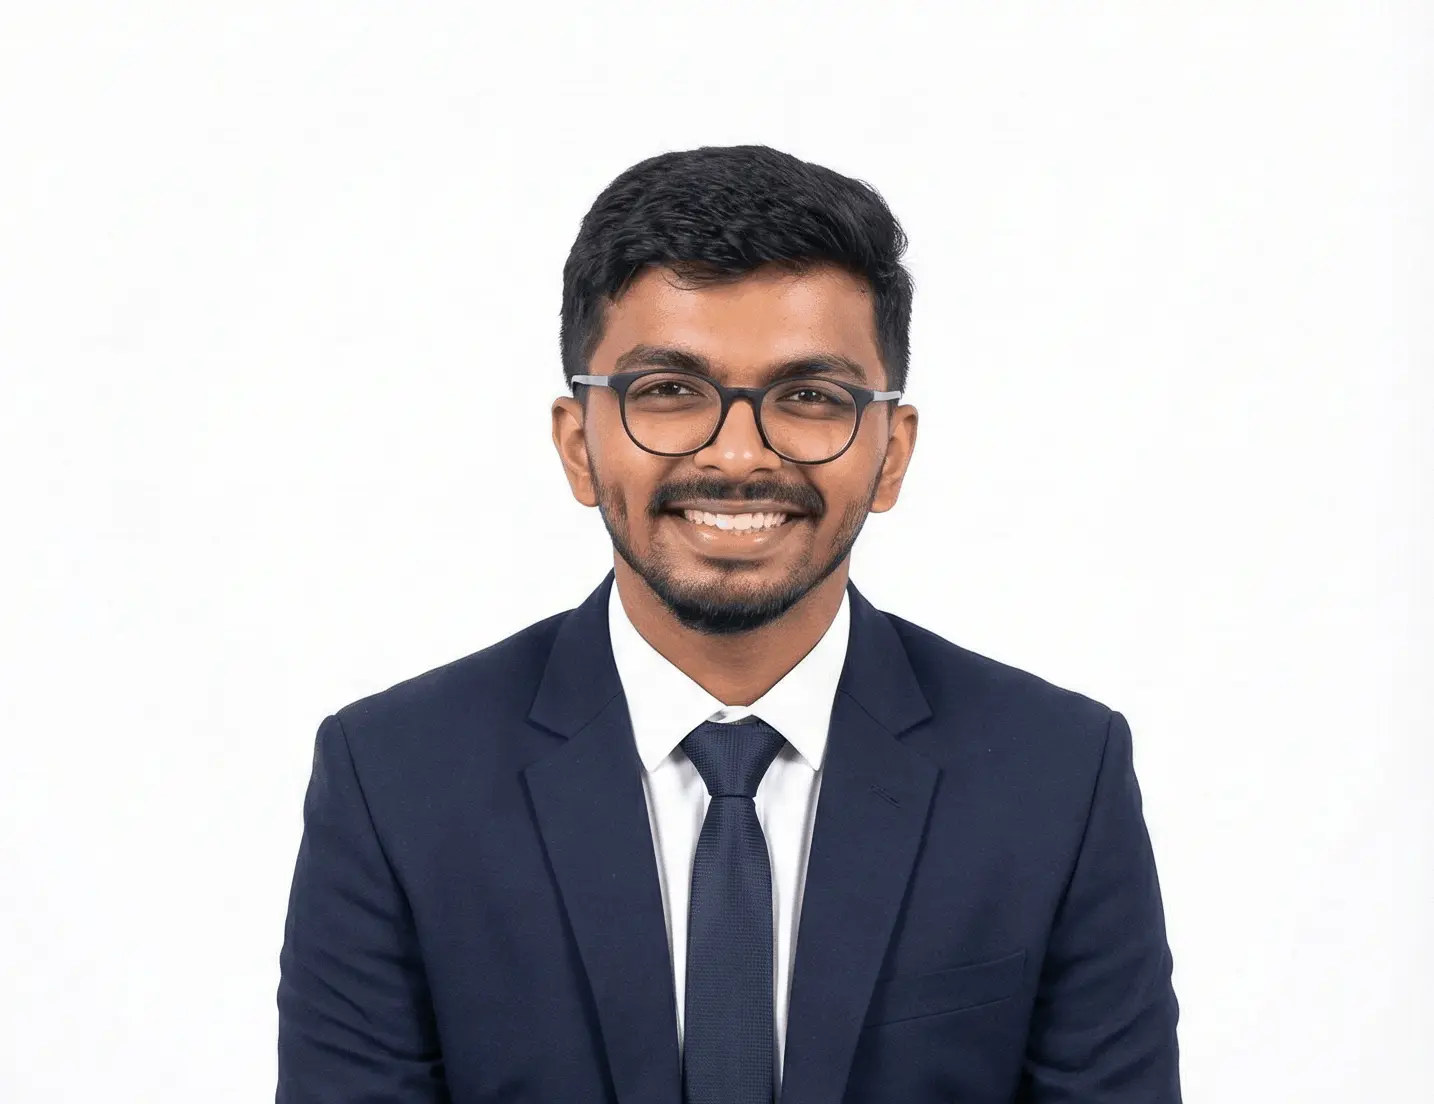
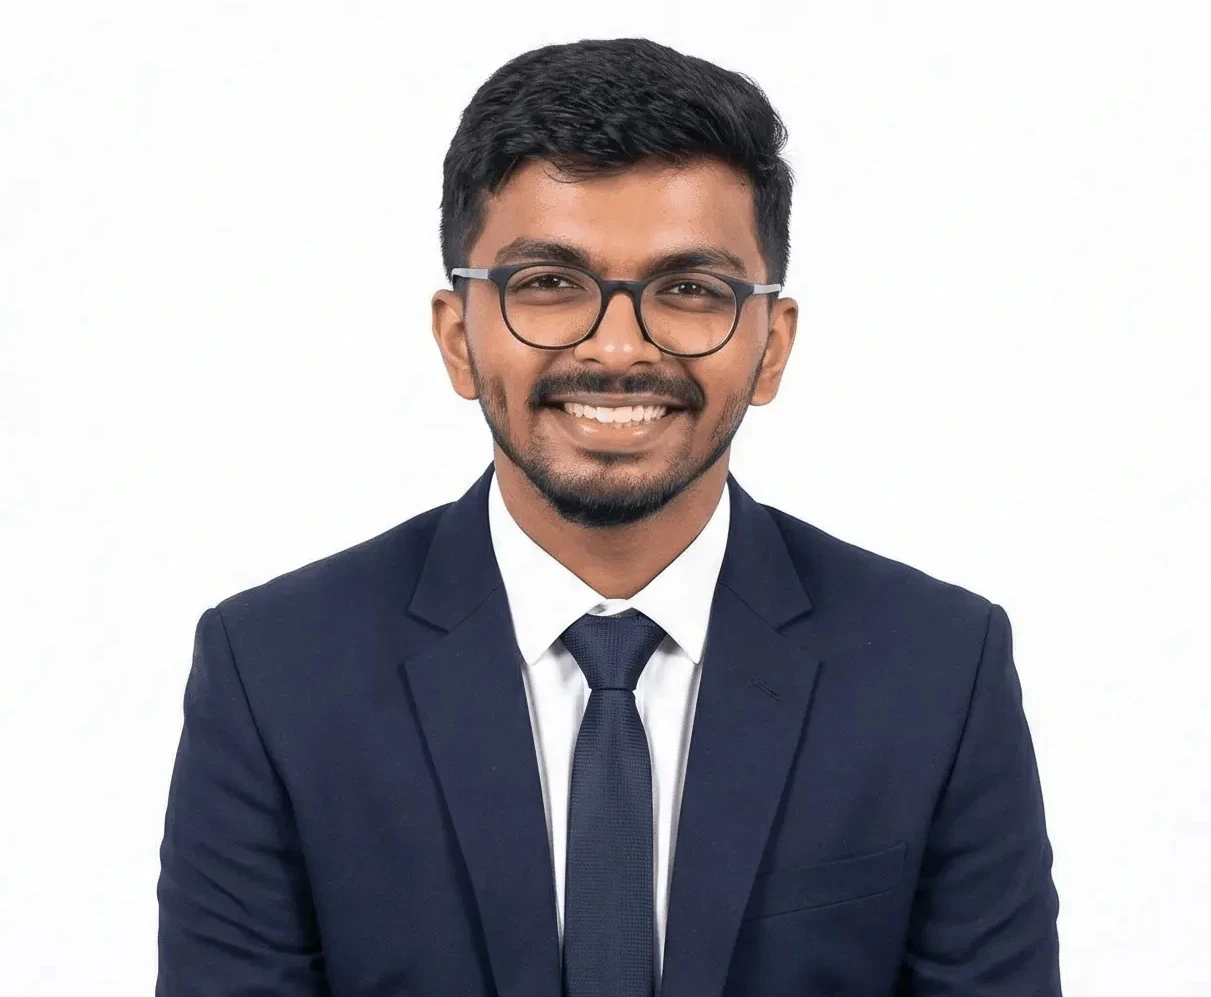
refinements

diff --git a/src/components/pages/UnifiedCapabilities.tsx b/src/components/pages/UnifiedCapabilities.tsx
@@ -1,69 +1,81 @@
-import { 
-  ShieldCheck, Layers, FileSearch, ArrowUpRight, Zap, 
-  ShoppingCart, Repeat, Tag, Award 
+import {
+  ShieldCheck,
+  Layers,
+  FileSearch,
+  ArrowUpRight,
+  Zap,
+  ShoppingCart,
+  Repeat,
+  Tag,
+  Award,
 } from "lucide-react";
 
 const UnifiedCapabilities = () => {
   const capabilities = [
     {
       title: "Direct Registry Integration",
-      description: "Secure technology and direct data bridges with global registries and exchanges to ensure every credit is authenticated and traceable.",
+      description:
+        "Secure technology and direct data bridges with global registries and exchanges to ensure every credit is authenticated and traceable.",
       icon: <Layers size={24} />,
-      tag: "Technology"
+      tag: "Technology",
     },
     {
       title: "Audit-Ready Accountability",
-      description: "Transparent documentation and evidence designed to stand up to audits, providing clarity for sustainability teams.",
+      description:
+        "Transparent documentation and evidence designed to stand up to audits, providing clarity for sustainability teams.",
       icon: <FileSearch size={24} />,
-      tag: "Governance"
+      tag: "Governance",
     },
     {
       title: "High-Integrity Verification",
-      description: "Our framework eliminates double counting and prevents fraud, preserving the integrity of every credit from origin to retirement.",
+      description:
+        "Our framework eliminates double counting and prevents fraud, preserving the integrity of every credit from origin to retirement.",
       icon: <ShieldCheck size={24} />,
-      tag: "Trust"
-    }
+      tag: "Trust",
+    },
   ];
 
   const actions = [
     {
       title: "BUY",
-      description: "Access premium, verified credits—fast, transparent, reliable.",
+      description:
+        "Access premium, verified credits—fast, transparent, reliable.",
       icon: <ShoppingCart size={24} />,
-      tag: "Acquisition"
+      tag: "Acquisition",
     },
     {
       title: "TRANSFER",
       description: "Move credits instantly with full traceability and control.",
       icon: <Repeat size={24} />,
-      tag: "Logistics"
+      tag: "Logistics",
     },
     {
       title: "SELL",
-      description: "List and monetize credits in a liquid, trusted marketplace.",
+      description:
+        "List and monetize credits in a liquid, trusted marketplace.",
       icon: <Tag size={24} />,
-      tag: "Liquidity"
+      tag: "Liquidity",
     },
     {
       title: "RETIRE",
-      description: "Retire credits with certainty—fully documented and compliant.",
+      description:
+        "Retire credits with certainty—fully documented and compliant.",
       icon: <Award size={24} />,
-      tag: "Compliance"
-    }
+      tag: "Compliance",
+    },
   ];
 
   return (
     <div className="relative w-full bg-[var(--background-image-main-gradient)] font-nunito overflow-hidden">
-      
       {/* --- SHARED BACKGROUND CANVAS --- */}
       <div className="absolute inset-0 pointer-events-none">
         <div className="absolute top-[5%] left-[-5%] w-[500px] h-[500px] bg-primary/10 rounded-full blur-[140px]" />
         <div className="absolute top-[15%] right-[-5%] w-[400px] h-[400px] bg-accent/5 rounded-full blur-[120px]" />
-        
+
         {/* Transition smoothing blurs */}
         <div className="absolute top-[45%] left-1/2 -translate-x-1/2 w-[600px] h-[600px] bg-primary/5 rounded-full blur-[160px]" />
         <div className="absolute top-[50%] right-[10%] w-80 h-80 bg-accent/10 blur-[110px] animate-pulse" />
-        
+
         <div className="absolute bottom-[10%] left-[-5%] w-[600px] h-[600px] bg-primary/15 rounded-full blur-[140px]" />
         <div className="absolute bottom-[5%] right-[5%] w-64 h-64 bg-accent/20 blur-[100px]" />
 
@@ -71,41 +83,61 @@ const UnifiedCapabilities = () => {
       </div>
 
       {/* --- SECTION 1: WHAT WE DO --- */}
-      <section id="what-we-do" className="relative z-10 w-full min-h-screen flex items-center py-20 px-6 md:px-12 lg:px-20 xl:px-24">
+      <section
+        id="what-we-do"
+        className="relative z-10 w-full min-h-screen flex items-center py-20 px-6 md:px-12 lg:px-20 xl:px-24"
+      >
         <div className="w-full max-w-[1600px] mx-auto">
           <div className="flex flex-col lg:flex-row items-center gap-16 lg:gap-24">
-            
             <div className="w-full lg:w-1/2 text-center lg:text-left">
               <div className="inline-flex items-center gap-2 px-3 py-1 rounded-lg bg-primary/10 border border-primary/5 mb-6">
                 <Zap className="text-primary" size={14} />
-                <span className="text-[10px] font-black uppercase tracking-[0.3em] text-primary">What We Do</span>
+                <span className="text-[10px] font-black uppercase tracking-[0.3em] text-primary">
+                  What We Do
+                </span>
               </div>
-              
+
               {/* Fix for text clipping 'e' */}
               <h2 className="text-secondary font-black text-[32px] sm:text-[38px] md:text-[44px] lg:text-[50px] xl:text-[60px] leading-[1.1] tracking-tighter mb-8 overflow-visible">
                 Turning Corporate <br />
-                <span className="text-primary-gradient italic tracking-normal inline-block pr-3">Climate Goals </span> 
+                <span className="text-primary-gradient italic tracking-normal inline-block pr-3">
+                  Climate Goals{" "}
+                </span>
                 into Verified Impact.
               </h2>
-              
+
               <p className="text-gray-500 font-medium text-lg lg:text-xl leading-relaxed max-w-xl mx-auto lg:mx-0">
-                troo.earth is a digital marketplace purpose-built for corporate climate action. We connect organisations to impactful projects through an ecosystem of trust.
+                troo.earth is a digital marketplace purpose-built for corporate
+                climate action. We connect organisations to impactful projects
+                through an ecosystem of trust.
               </p>
             </div>
 
             <div className="w-full lg:w-1/2 space-y-4">
               {capabilities.map((item, idx) => (
-                <div key={idx} className="group flex items-start gap-6 p-6 md:p-8 rounded-[2rem] bg-white/40 backdrop-blur-xl border border-white/60 transition-all duration-500 hover:shadow-[0_20px_40px_-15px_rgba(23,62,53,0.1)] hover:-translate-x-2">
+                <div
+                  key={idx}
+                  className="group flex items-start gap-6 p-6 md:p-8 rounded-[2rem] bg-white/40 backdrop-blur-xl border border-white/60 transition-all duration-500 hover:shadow-[0_20px_40px_-15px_rgba(23,62,53,0.1)] hover:-translate-x-2"
+                >
                   <div className="shrink-0 w-14 h-14 rounded-2xl bg-primary text-white flex items-center justify-center shadow-lg shadow-primary/10 group-hover:bg-primary-gradient transition-all duration-500">
                     {item.icon}
                   </div>
                   <div className="flex flex-col text-left">
                     <div className="flex items-center justify-between mb-1">
-                      <span className="text-[9px] font-black uppercase tracking-[0.2em] text-primary/60">{item.tag}</span>
-                      <ArrowUpRight size={14} className="text-primary opacity-0 group-hover:opacity-100 transition-opacity" />
+                      <span className="text-[9px] font-black uppercase tracking-[0.2em] text-primary/60">
+                        {item.tag}
+                      </span>
+                      <ArrowUpRight
+                        size={14}
+                        className="text-primary opacity-0 group-hover:opacity-100 transition-opacity"
+                      />
                     </div>
-                    <h3 className="text-xl md:text-2xl font-black text-secondary mb-2 tracking-tight">{item.title}</h3>
-                    <p className="text-gray-500 text-sm md:text-base leading-relaxed font-medium">{item.description}</p>
+                    <h3 className="text-xl md:text-2xl font-black text-secondary mb-2 tracking-tight">
+                      {item.title}
+                    </h3>
+                    <p className="text-gray-500 text-sm md:text-base leading-relaxed font-medium">
+                      {item.description}
+                    </p>
                   </div>
                 </div>
               ))}
@@ -115,48 +147,78 @@ const UnifiedCapabilities = () => {
       </section>
 
       {/* --- SECTION 2: PLATFORM ACTIONS --- */}
-      <section id="platform-actions" className="relative z-10 w-full min-h-screen flex items-center py-20 px-6 md:px-12 lg:px-20 xl:px-24">
-        <div className="w-full max-w-[1600px] mx-auto">
-          <div className="flex flex-col lg:flex-row items-center gap-16 lg:gap-24">
-            
-            <div className="w-full lg:w-1/2 text-center lg:text-left">
-              <div className="inline-flex items-center gap-2 px-3 py-1 rounded-lg bg-primary/10 border border-primary/5 mb-6">
-                <Zap className="text-primary" size={14} />
-                <span className="text-[10px] font-black uppercase tracking-[0.3em] text-primary">Capabilities</span>
-              </div>
-              
-              <h2 className="text-secondary font-black text-[32px] sm:text-[38px] md:text-[44px] lg:text-[50px] xl:text-[60px] leading-[1.1] tracking-tighter mb-8 overflow-visible">
-                <span className="text-primary-gradient italic tracking-normal inline-block pr-3">Unified Infrastructure</span> <br />
-                for Modern Businesses.
-              </h2>
-              
-              <p className="text-gray-500 font-medium text-lg lg:text-xl leading-relaxed max-w-xl mx-auto lg:mx-0">
-                Empowering enterprises with a single hub to manage, trade, and verify environmental assets with total operational clarity.
-              </p>
-            </div>
+<section id="platform-actions" className="relative z-10 w-full min-h-screen flex items-center py-20 px-6 md:px-12 lg:px-20 xl:px-24">
+  <div className="w-full max-w-[1600px] mx-auto">
+    <div className="flex flex-col lg:flex-row items-center gap-12 lg:gap-24">
+      
+      {/* Left Content */}
+      <div className="w-full lg:w-[40%] text-center lg:text-left">
+        <div className="inline-flex items-center gap-2 px-3 py-1 rounded-lg bg-primary/10 border border-primary/5 mb-6">
+          <Zap className="text-primary" size={14} />
+          <span className="text-[10px] font-black uppercase tracking-[0.3em] text-primary">Capabilities</span>
+        </div>
+        
+        <h2 className="text-secondary font-black text-[32px] sm:text-[38px] md:text-[44px] lg:text-[50px] xl:text-[60px] leading-[1.1] tracking-tighter mb-6 lg:mb-8">
+          <span className="text-primary-gradient italic tracking-normal inline-block pr-3">Unified Infrastructure</span> <br />
+          for Modern Businesses.
+        </h2>
+        
+        <p className="text-gray-500 font-medium text-base md:text-lg lg:text-xl leading-relaxed max-w-xl mx-auto lg:mx-0">
+          Empowering enterprises with a single hub to manage, trade, and verify environmental assets with total operational clarity.
+        </p>
+      </div>
 
-            <div className="w-full lg:w-1/2 space-y-4">
-              {actions.map((item, idx) => (
-                <div key={idx} className="group flex items-start gap-6 p-6 md:p-8 rounded-[2rem] bg-white/40 backdrop-blur-xl border border-white/60 transition-all duration-500 hover:shadow-[0_20px_40px_-15px_rgba(23,62,53,0.1)] hover:-translate-x-2">
-                  <div className="shrink-0 w-14 h-14 rounded-2xl bg-primary text-white flex items-center justify-center shadow-lg shadow-primary/10 group-hover:bg-primary-gradient transition-all duration-500">
+      {/* Right: 2x2 Grid - Mobile Responsive */}
+      <div className="w-full lg:w-[60%]">
+        {/* Changed 'grid-cols-1' to 'grid-cols-2' for small devices to maintain 2x2 */}
+        <div className="grid grid-cols-2 gap-3 sm:gap-6 md:gap-8">
+          {actions.map((item, idx) => (
+            <div 
+              key={idx} 
+              className="group relative p-4 sm:p-8 md:p-10 rounded-[1.5rem] sm:rounded-[2.5rem] bg-white/40 backdrop-blur-xl border border-white/60 transition-all duration-500 hover:shadow-[0_30px_60px_-15px_rgba(23,62,53,0.15)] hover:-translate-y-2 flex flex-col justify-between overflow-hidden h-full min-h-[160px] sm:min-h-[300px]"
+            >
+              {/* Decorative Background Icon (Smaller on Mobile) */}
+              <div className="absolute -right-2 -bottom-2 text-primary/5 transition-transform duration-700 group-hover:scale-110 group-hover:-rotate-12">
+                <div className="[&>svg]:w-[60px] [&>svg]:h-[60px] sm:[&>svg]:w-[120px] sm:[&>svg]:h-[120px]">
+                  {item.icon}
+                </div>
+              </div>
+
+              <div className="relative z-10">
+                <div className="flex items-center justify-between mb-3 sm:mb-6">
+                  {/* Smaller Icon Container for Mobile */}
+                  <div className="w-10 h-10 sm:w-14 sm:h-14 rounded-xl sm:rounded-2xl bg-primary text-white flex items-center justify-center shadow-lg shadow-primary/10 group-hover:bg-primary-gradient transition-all duration-500 [&>svg]:w-[18px] [&>svg]:h-[18px] sm:[&>svg]:w-[24px] sm:[&>svg]:h-[24px]">
                     {item.icon}
                   </div>
-                  <div className="flex flex-col text-left">
-                    <div className="flex items-center justify-between mb-1">
-                      <span className="text-[9px] font-black uppercase tracking-[0.2em] text-primary/60">{item.tag}</span>
-                      <ArrowUpRight size={14} className="text-primary opacity-0 group-hover:opacity-100 transition-opacity" />
-                    </div>
-                    <h3 className="text-xl md:text-2xl font-black text-secondary mb-2 tracking-tight">
-                      {item.title} <span className="font-light text-gray-400">CREDITS</span>
-                    </h3>
-                    <p className="text-gray-500 text-sm md:text-base leading-relaxed font-medium">{item.description}</p>
-                  </div>
+                  {/* Tag hidden on very small devices for clarity, shown on sm+ */}
+                  <span className="hidden sm:inline-block text-[10px] font-black uppercase tracking-[0.2em] text-primary/60 bg-white/50 px-3 py-1 rounded-full border border-white/80">
+                    {item.tag}
+                  </span>
                 </div>
-              ))}
+                
+                <h3 className="text-sm sm:text-2xl md:text-3xl font-black text-secondary mb-1 sm:mb-3 tracking-tight">
+                  {item.title} <span className="hidden sm:inline-block font-light text-gray-400">CREDITS</span>
+                </h3>
+              </div>
+
+              <div className="relative z-10">
+                {/* Description font size reduced for mobile 2x2 */}
+                <p className="text-[10px] sm:text-sm md:text-base text-gray-500 leading-tight sm:leading-relaxed font-medium line-clamp-3 sm:line-clamp-none">
+                  {item.description}
+                </p>
+                {/* Arrow indicator hidden on mobile to save vertical space */}
+                <div className="hidden sm:flex mt-4 w-10 h-10 rounded-full bg-secondary/5 items-center justify-center text-secondary opacity-0 group-hover:opacity-100 group-hover:translate-x-2 transition-all duration-500">
+                  <ArrowUpRight size={20} />
+                </div>
+              </div>
             </div>
-          </div>
+          ))}
         </div>
-      </section>
+      </div>
+
+    </div>
+  </div>
+</section>
     </div>
   );
 };

diff --git a/src/components/pages/LandingPage.tsx b/src/components/pages/LandingPage.tsx
@@ -166,7 +166,7 @@ const LandingPage = () => {
         <section className="flex flex-col items-center justify-center text-center flex-grow">
           
           {/* High-Impact Typography */}
-          <h1 className="text-secondary font-black text-[60px] md:text-[80px] lg:text-[80px] xl:text-[95px] leading-[0.9] tracking-tighter mb-8 max-w-5xl">
+          <h1 className="text-secondary font-black text-[50px] sm:text-[60px] md:text-[80px] lg:text-[80px] xl:text-[95px] leading-[0.9] tracking-tighter mb-8 max-w-5xl">
             Turning Commitments <br />
             <span className="text-primary-gradient italic">into Action.</span>
           </h1>
